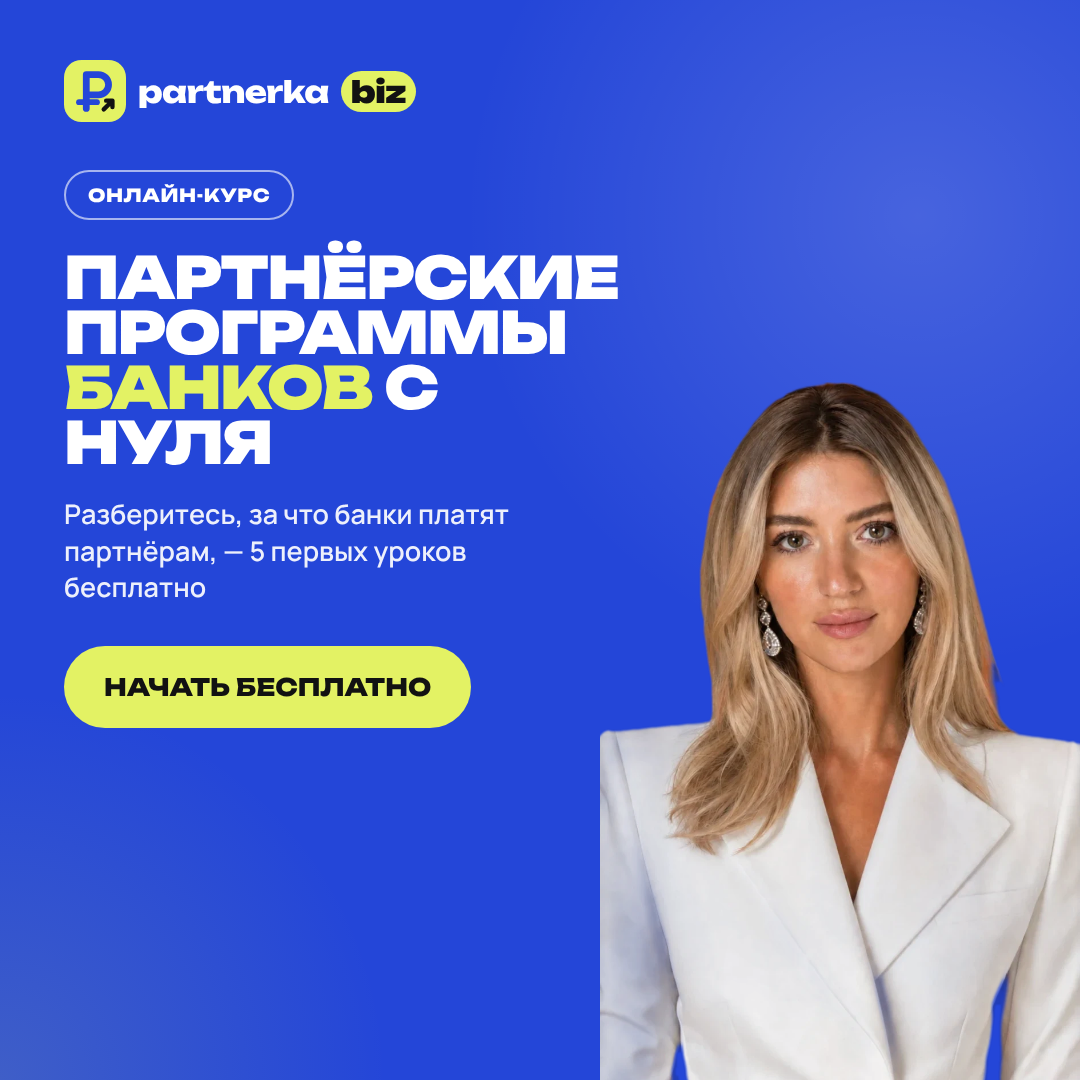
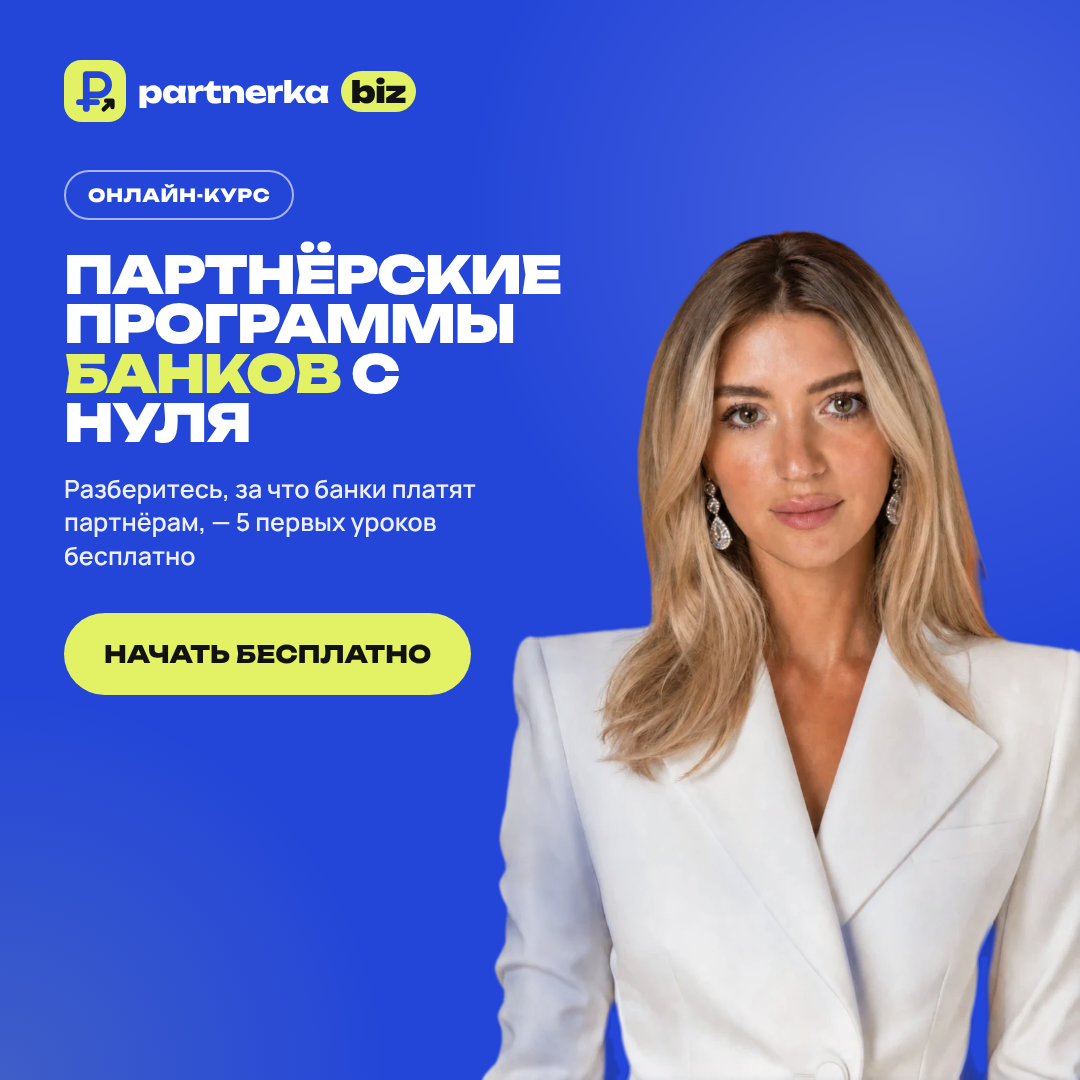
Fix mobile hero overflow, full-silhouette photo in ads
On narrow phones the nowrap course pill widened the hero text column
past its padding; the column is now constrained, the pill wraps in a
smaller font and the CTA buttons span the width. Ad images use the full
silhouette, larger and anchored to the right and bottom edges so no cut
sleeve shows, with text columns narrowed so nothing covers the face.

Claude-Session: https://claude.ai/code/session_015gxBjUa9Ty9qLThEiKhuUU

diff --git a/index.html b/index.html
@@ -130,7 +130,10 @@ section{padding:100px 0;position:relative}
 @media (max-width:980px){
   .hero-card{display:flex;flex-direction:column;padding:30px 22px 0;min-height:auto;gap:0}
   .hero-text{padding-bottom:0}
-  .hero .big{font-size:clamp(34px,10.5vw,64px)}
+  .hero .big{font-size:clamp(30px,9.4vw,64px)}
+  .hero-text{width:100%;min-width:0;align-self:stretch}
+  .hero-text .hero-tag{white-space:normal;line-height:1.3;max-width:100%;font-size:10px}
+  .hero-ctas .btn{flex:1 1 auto;justify-content:center}
   .hero-free{position:static;max-width:none;text-align:left;margin:24px 0 0;display:block;padding:16px 18px;border-radius:20px;background:rgba(255,255,255,.1);font-size:14px;line-height:1.4;opacity:1}
   .hero-free b{font-size:30px;margin-bottom:6px}
   .hero-text{order:0}.hero-free{order:1}.hero-photo{order:2}
